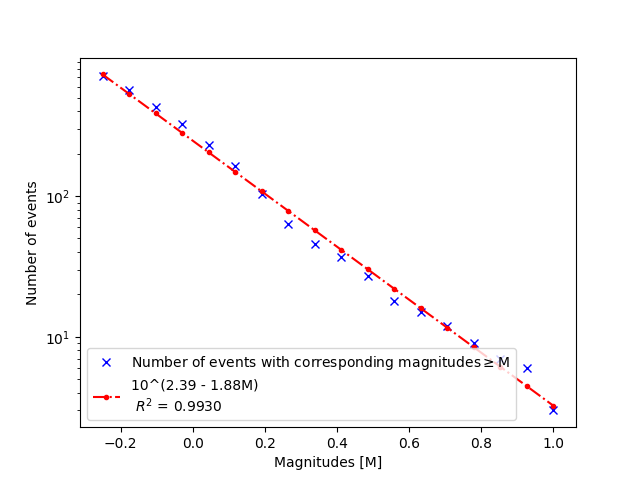
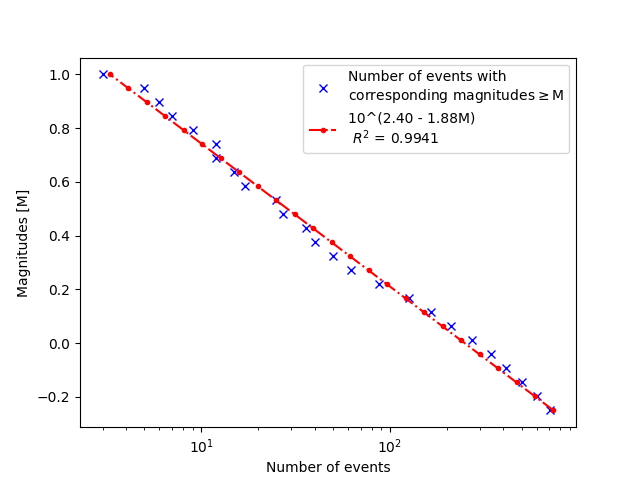
Fixed the graphs

diff --git a/examples/driver.py b/examples/driver.py
@@ -74,7 +74,7 @@ def main():
     y4 = magnitude[index[3]:]
 
     #Number of events in each cut
-    M = np.linspace(-0.25, 1, num = 18)
+    M = np.linspace(-0.25, 1, num = 25)
     N0 =[sum(1 for j in y0 if j > M[m]) for m in range(len(M))] 
     N1 = [sum(1 for j in y1 if j > M[m]) for m in range(len(M))]
     N2 = [sum(1 for j in y2 if j > M[m]) for m in range(len(M))]
@@ -103,24 +103,22 @@ def main():
     
     for j, num in enumerate(N_arrays):
         #Keeping in mind that to solve equation 4.3, the log will have to be taken
+        plt.figure()
         a, e, rsq = multi_regress(np.log10(num), Z)
         rgr = 10 ** np.matmul(Z, a)
         res[j] = np.append(res[j], e)
         #Plotting a log scale on the y axis
-        plt.semilogy(M, num, 'bx', label = 'Number of events with corresponding magnitudes'+f'$\geq$M')
+        plt.semilogx(num, M, 'bx', label = 'Number of events with \ncorresponding magnitudes'
+                     +f'$\geq$M')
         #labeling 4.3 in figure, with decimal points
         equation1 = f"10^({a[0]:.2f} - {a[1]:.2f}M) \n $R^2$ = {rsq:.4f}"
         #equation2 = f"$R^2$ = {rsq:.4f}"
         #Plotting the model
-        plt.plot(M, rgr, '.-.r', label = equation1) #and equation2)
-        plt.xlabel("Magnitudes [M]")
-        plt.ylabel("Number of events")
+        plt.plot(rgr, M, '.-.r', label = equation1) #and equation2)
+        plt.ylabel("Magnitudes [M]")
+        plt.xlabel("Number of events")
         plt.legend()
         plt.savefig(f"figures/{labels[j]}.png")
-
-
-
-        plt.figure()
 
 if __name__ == "__main__":
     main()
